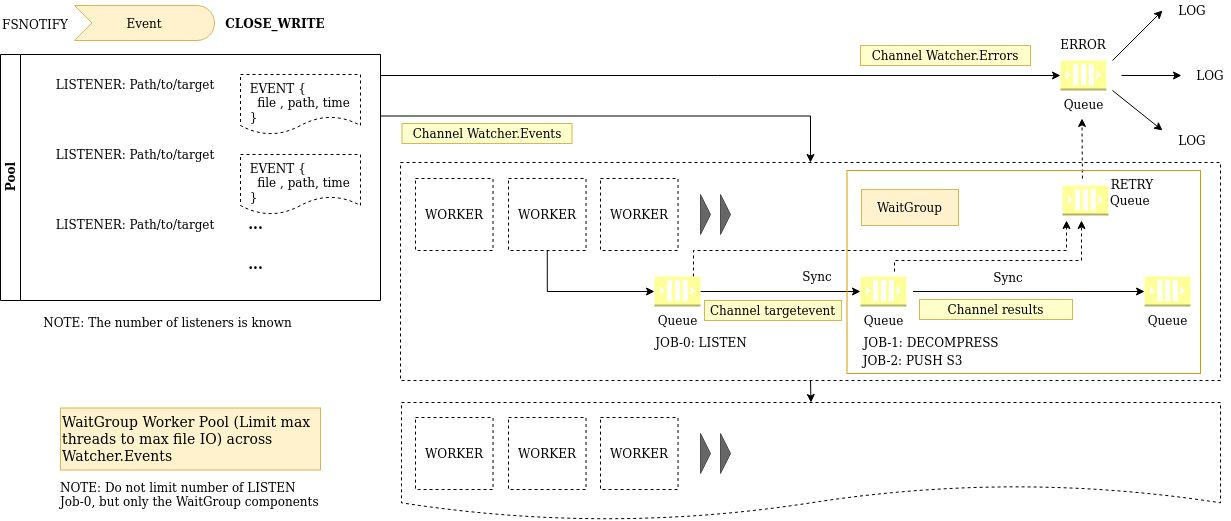
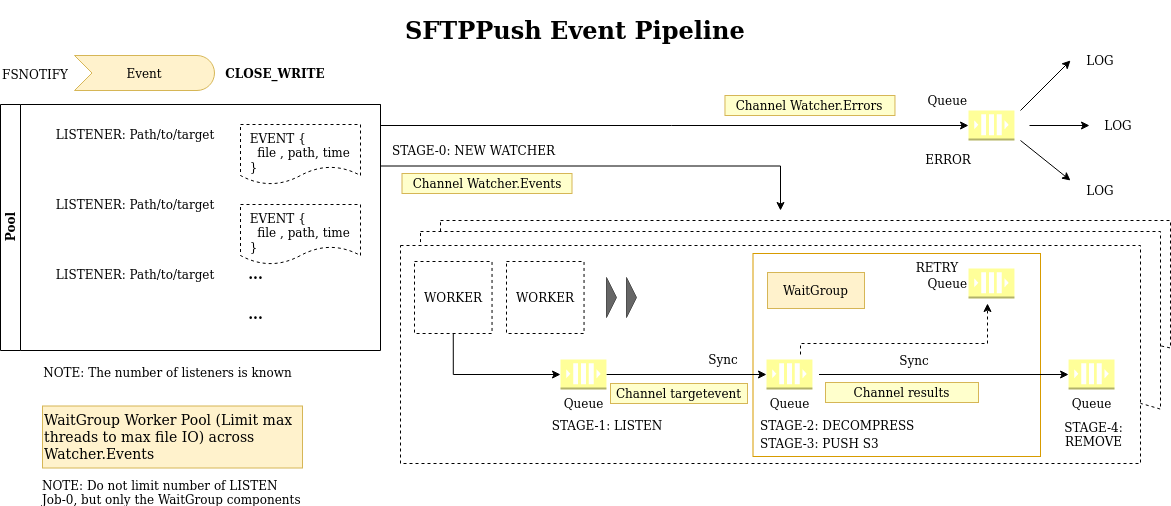
common EventPushiInfo struct along all Stages

diff --git a/pkg/event/jobs.go b/pkg/event/jobs.go
@@ -15,57 +15,57 @@ import (
 	"github.com/fsnotify/fsnotify"
 )
 
-//!+job-3
+//!+stage-4
 
 // Remove waits for S3 upload to finish and removes event file
 func (o FsEventOps) Remove(e EventInfo) {
 	// TODO This seems to conflict - need to be outside of WaitGroup()
 	// defer wg.Done()
 	if err := os.Remove(e.Event.AbsLoc); err != nil {
-		log.Printf("ERROR[-] Job-2: Remove %s", err)
+		log.Printf("ERROR[-] Stage-4: Remove %s", err)
 	}
 }
 
-//!-job-2
+//!-stage-4
 
-//!+job-2
+//!+stage-3
 
 // PushS3 uploads the source event file byte stream to S3 and removes the file
 func (o FsEventOps) PushS3(in io.Reader, pi EventPushInfo, wg *sync.WaitGroup, ei EventInfo) {
 	defer wg.Done()
-	uploader := s3manager.NewUploaderWithClient(pi.session, func(u *s3manager.Uploader) {
+	uploader := s3manager.NewUploaderWithClient(pi.Session, func(u *s3manager.Uploader) {
 		u.PartSize = 64 * 1024 * 1024 // 64MB per part
 	})
 	upl := s3manager.UploadInput{
 		Body:   in,
-		Bucket: &pi.bucket,
-		Key:    &pi.key,
+		Bucket: pi.Bucket,
+		Key:    &pi.Key,
 	}
 
 	r, err := uploader.Upload(&upl)
 	if err != nil {
 		// TODO send upload error to RETRY
-		log.Printf("WARNING[-] Job-2: PushS3 %s", err)
+		log.Printf("WARNING[-] Stage-3: PushS3 %s", err)
 	} else {
-		pi.results <- &ResultInfo{response: r, eventInfo: ei}
+		pi.Results <- &ResultInfo{response: r, eventInfo: ei}
 	}
 
 }
 
-//!-job-2
+//!-stage-3
 
-//!+job-1
+//!+stage-2
 
 // FType detects and returns the file type along with the initial file io.Reader
 func (o *FsEventOps) FType(epath string) (string, *io.Reader) {
 	f, err := os.Open(epath)
 	if err != nil {
-		log.Printf("WARNING[-] Job-1: Open %s, %s\n", filepath.Base(epath), err)
+		log.Printf("WARNING[-] Stage-2: Open %s, %s\n", filepath.Base(epath), err)
 	}
 
 	buf := make([]byte, 32)
 	if _, err := f.Read(buf); err != nil {
-		log.Printf("ERROR[-] Job-1: File Read %s, %s\n", filepath.Base(epath), err)
+		log.Printf("ERROR[-] Stage-2: File Read %s, %s\n", filepath.Base(epath), err)
 	}
 	fT := http.DetectContentType(buf)
 
@@ -75,61 +75,62 @@ func (o *FsEventOps) FType(epath string) (string, *io.Reader) {
 	return fT, &r
 }
 
-// Decompress detects the file type and sends the decompressed byte stream to the PushS3 job
-func (o *FsEventOps) Decompress(in <-chan EventInfo, pi EventPushInfo, apath *string) {
+// Decompress detects the file type and sends the decompressed byte stream to the PushS3 stage
+func (o *FsEventOps) Decompress(in <-chan EventInfo, pi *EventPushInfo) {
 	var wg sync.WaitGroup
 	for e := range in {
-		newPi := &pi
 
 		p := e.Event.AbsLoc
-		cfgp := *apath
+		//cfgp := *apath
 
 		ft, b := o.FType(p)
 		switch ft {
 		case "application/x-gzip":
-			log.Printf("DEBUG[*] Job-1: fT %s, %s\n", ft, filepath.Base(p))
+			log.Printf("DEBUG[*] Stage-2: fT %s, %s\n", ft, filepath.Base(p))
 			gz, err := gzip.NewReader(*b)
 			if err != nil {
-				log.Printf("ERROR[-] Job-1: gzip.NewReader, %s\n", err)
+				log.Printf("ERROR[-] Stage-2: gzip.NewReader, %s\n", err)
 			}
 
-			newPi.key, err = o.reduceEventPath(p, cfgp)
+			pi.Key, err = o.reduceEventPath(p, pi.Userpath)
 			if err != nil {
-				log.Printf("ERROR[*] Job-1: %s", err)
+				log.Printf("ERROR[*] Stage-2: %s", err)
 			}
 
 			wg.Add(1)
-			go o.PushS3(gz, *newPi, &wg, e)
+			go o.PushS3(gz, *pi, &wg, e)
 		case "application/zip":
-			log.Printf("DEBUG[*] Job-1: fT %s, %s\n", ft, filepath.Base(p))
+			log.Printf("DEBUG[*] Stage-2: fT %s, %s\n", ft, filepath.Base(p))
 		default:
 			// if strings.HasPrefix(string(buf), "\x42\x5a\x68") {
-			// 	log.Printf("INFO[*] Job-1: file type %s, %s\n", ft, filepath.Base(p))
+			// 	log.Printf("INFO[*] Stage-1: file type %s, %s\n", ft, filepath.Base(p))
 			// } else {}
-			log.Printf("WARNING[-] Job-1: unexpected fT %s, %s\n", ft, filepath.Base(p))
+			log.Printf("WARNING[-] Stage-2: unexpected fT %s, %s\n", ft, filepath.Base(p))
 		}
 
 	}
 	go func() {
-		// Blocking until job-1 and job-2 are finished
+		// Blocking until stage-2 and stage-3 are finished
 		wg.Wait()
 	}()
 }
 
-//!-job-1
+//!-stage-2
 
-//!+job-0
+//!+stage-1
 
-// Listen listens to file events from fsnotify.Watcher and sends them to the job-1 channel
+// Listen listens to file events from fsnotify.Watcher and sends them to the stage-1 channel
 func (o *FsEventOps) Listen(w *fsnotify.Watcher, out chan<- EventInfo) {
 	for {
 		select {
 		case event, ok := <-w.Events: // RECEIVE event
+			// check if channel is closed (!ok == closed)
 			if !ok {
 				return
 			}
-			// all events are caught by default
-			log.Printf("DEBUG[+] Job-0: %v, eventT: %T\n", event, event)
+			// all events are logged by default
+			log.Printf("DEBUG[+] Stage-1: %v, eventT: %T\n", event, event)
+
 			if event.Op&fsnotify.CloseWrite == fsnotify.CloseWrite {
 				fsEv := &FsEvent{
 					Event: event,
@@ -137,7 +138,7 @@ func (o *FsEventOps) Listen(w *fsnotify.Watcher, out chan<- EventInfo) {
 				}
 				ev, err := fsEv.Info()
 				if err != nil {
-					log.Printf("WARNING[-] Job-0: Listen %s\n", err)
+					log.Printf("WARNING[-] Stage-1: Listen %s\n", err)
 				}
 
 				// 32 bytes needed for determining file type
@@ -147,23 +148,24 @@ func (o *FsEventOps) Listen(w *fsnotify.Watcher, out chan<- EventInfo) {
 					// only for testing
 					einfo, err := json.Marshal(ev)
 					if err != nil {
-						log.Printf("ERROR[-] Job-0: Json, %s\n", err)
+						log.Printf("ERROR[-] Stage-1: Json, %s\n", err)
 					}
-					log.Printf("DEBUG[*] Job-0: Unknown File Type, %v, eiT: %T\n", string(einfo), ev)
+					log.Printf("DEBUG[*] Stage-1: Unknown File Type, %v, eiT: %T\n", string(einfo), ev)
 				}
 
 			}
 
 		case err, ok := <-w.Errors: // RECEIVE eventError
+			log.Printf("ERROR[-] Stage-1: Listen %s\n", err)
+			// check if channel is closed (!ok == closed)
 			if !ok {
 				// TODO Will this exit the Listen() func?? when channel
 				// w.Errors gets closed??
 				// Where gets the w.Errors channel closed??
 				return
 			}
-			log.Printf("ERROR[-] Job-0: Listen %s\n", err)
 		}
 	}
 }
 
-//!-job-0
+//!-stage-1

diff --git a/pkg/event/watcher.go b/pkg/event/watcher.go
@@ -7,14 +7,14 @@ import (
 	"strings"
 	"time"
 
-	"github.com/aws/aws-sdk-go/service/s3"
 	"github.com/fsnotify/fsnotify"
 	"github.com/pkg/errors"
 	"github.com/spf13/afero"
 )
 
 // reduceEventPath returns the absolute Event path reduced by the gCfg userpath
-func (o *FsEventOps) reduceEventPath(evp string, cfgp string) (string, error) {
+func (o *FsEventOps) reduceEventPath(evp string, cfgp *string) (string, error) {
+	cfgUserPath := *cfgp
 	eventPath := strings.Split(evp, "/")
 	eventPathDepth := len(eventPath)
 	reducedPath := make([]string, 0)
@@ -22,7 +22,7 @@ func (o *FsEventOps) reduceEventPath(evp string, cfgp string) (string, error) {
 	for i := 0; i < eventPathDepth; i++ {
 		dEventPath := eventPath[:len(eventPath)-i]
 		evPath := strings.Join(dEventPath, "/")
-		b, err := path.Match(cfgp, evPath+"/")
+		b, err := path.Match(cfgUserPath, evPath+"/")
 		if err != nil {
 			log.Printf("ERROR[-] Derive relative event path, %s", err)
 			return "", errors.Wrapf(err, "Derive relative event path: %s != %s", evp, cfgp)
@@ -83,8 +83,11 @@ func (e *FsEvent) Info() (*EventInfo, error) {
 }
 
 // Implements fsnotify file event watcher on a target directory
-func (o *FsEventOps) NewWatcher(targetDirs []string, conn *s3.S3, targetBucket *string, apath *string) {
-	watcher, err := fsnotify.NewWatcher()
+func (o *FsEventOps) NewWatcher(epIn *EventPushInfo) {
+	// ------------------ Go Concurrency---------------------------------
+	// TODO implement a more expressive concurrency pattern
+
+	watcher, err := fsnotify.NewWatcher() // Producer Stage-0
 	if err != nil {
 		log.Fatal(err)
 	}
@@ -95,29 +98,22 @@ func (o *FsEventOps) NewWatcher(targetDirs []string, conn *s3.S3, targetBucket *
 	// How is a new done channel even working here?
 	// fmt.Printf("%#v", watcher)
 	done := make(chan bool)
-	targetevent := make(chan EventInfo)
-	results := make(chan *ResultInfo)
 
-	epi := EventPushInfo{
-		session: conn,
-		bucket:  *targetBucket,
-		key:     "",
-		results: results,
-	}
+	targetevent := make(chan EventInfo)
 
 	go o.Listen(watcher, targetevent) // fsnotify event implementation
-	go o.Decompress(targetevent, epi, apath)
+	go o.Decompress(targetevent, epIn)
 
 	// Wait for all results in the background
 	go func() {
-		for f := range results {
+		for f := range epIn.Results {
 			//log.Printf("INFO[+] Results: %#v\n", f)
 			go o.Remove(f.eventInfo)
 		}
 	}()
 
 	// Add directories to *Watcher
-	for _, d := range targetDirs {
+	for _, d := range epIn.Watchdirs {
 		err = watcher.Add(d)
 		if err != nil {
 			log.Printf("ERROR[-] NewWatcher.Add %s, %s", d, err)
@@ -127,4 +123,6 @@ func (o *FsEventOps) NewWatcher(targetDirs []string, conn *s3.S3, targetBucket *
 	// Which token is released here? as there was none being send to new done channel..
 	// Is this just blocking? Why?
 	<-done // Release the token
+
+	// ------------------ Go Concurency----------------------------------
 }

diff --git a/pkg/event/event.go b/pkg/event/event.go
@@ -21,12 +21,12 @@ type FsEvent struct {
 type FsEventOperations interface {
 	EventSrc(path string) (string, error)
 	FsInfo(path string) (os.FileInfo, error)
-	NewWatcher(paths []string, conn *s3.S3, bucket *string, userpath *string)
+	NewWatcher(info *EventPushInfo)
 	FType(path string) (string, *io.Reader)
 	Listen(watcher *fsnotify.Watcher, targetevents chan<- EventInfo)
-	Decompress(targetevents <-chan EventInfo, pinfo EventPushInfo, epath *string)
+	Decompress(targetevents <-chan EventInfo, pinfo *EventPushInfo)
 	PushS3(bytes io.Reader, pinfo EventPushInfo, wg *sync.WaitGroup, einfo EventInfo)
-	reduceEventPath(p string, cfgp string) (string, error)
+	reduceEventPath(p string, cfgp *string) (string, error)
 	Remove(event EventInfo)
 }
 
@@ -53,13 +53,17 @@ type Meta struct {
 	Size    int64       `json:"size"`
 }
 
+// EventPushInfo contains the common data for SftpPush Stages
 type EventPushInfo struct {
-	session *s3.S3
-	bucket  string
-	key     string
-	results chan<- *ResultInfo
+	Session   *s3.S3
+	Userpath  *string
+	Watchdirs []string
+	Bucket    *string
+	Key       string
+	Results   chan *ResultInfo
 }
 
+// ResultInfo is the data returned in the results channel
 type ResultInfo struct {
 	response  *s3manager.UploadOutput
 	eventInfo EventInfo

diff --git a/cmd/watch.go b/cmd/watch.go
@@ -127,7 +127,17 @@ func (w *watchConfigOps) createWatcher(e event.FsEventOps, g *watchConfig) error
 			CheckedSrcDirs = append(CheckedSrcDirs, tDir)
 		}
 	}
-	e.NewWatcher(CheckedSrcDirs, c, trgB, srcD)
+
+	epi := &event.EventPushInfo{
+		Session:   c,
+		Userpath:  srcD,
+		Watchdirs: CheckedSrcDirs,
+		Bucket:    trgB,
+		Key:       "",
+		Results:   make(chan *event.ResultInfo), // Consumer Stage-4
+	}
+
+	e.NewWatcher(epi)
 	return nil
 }
 
